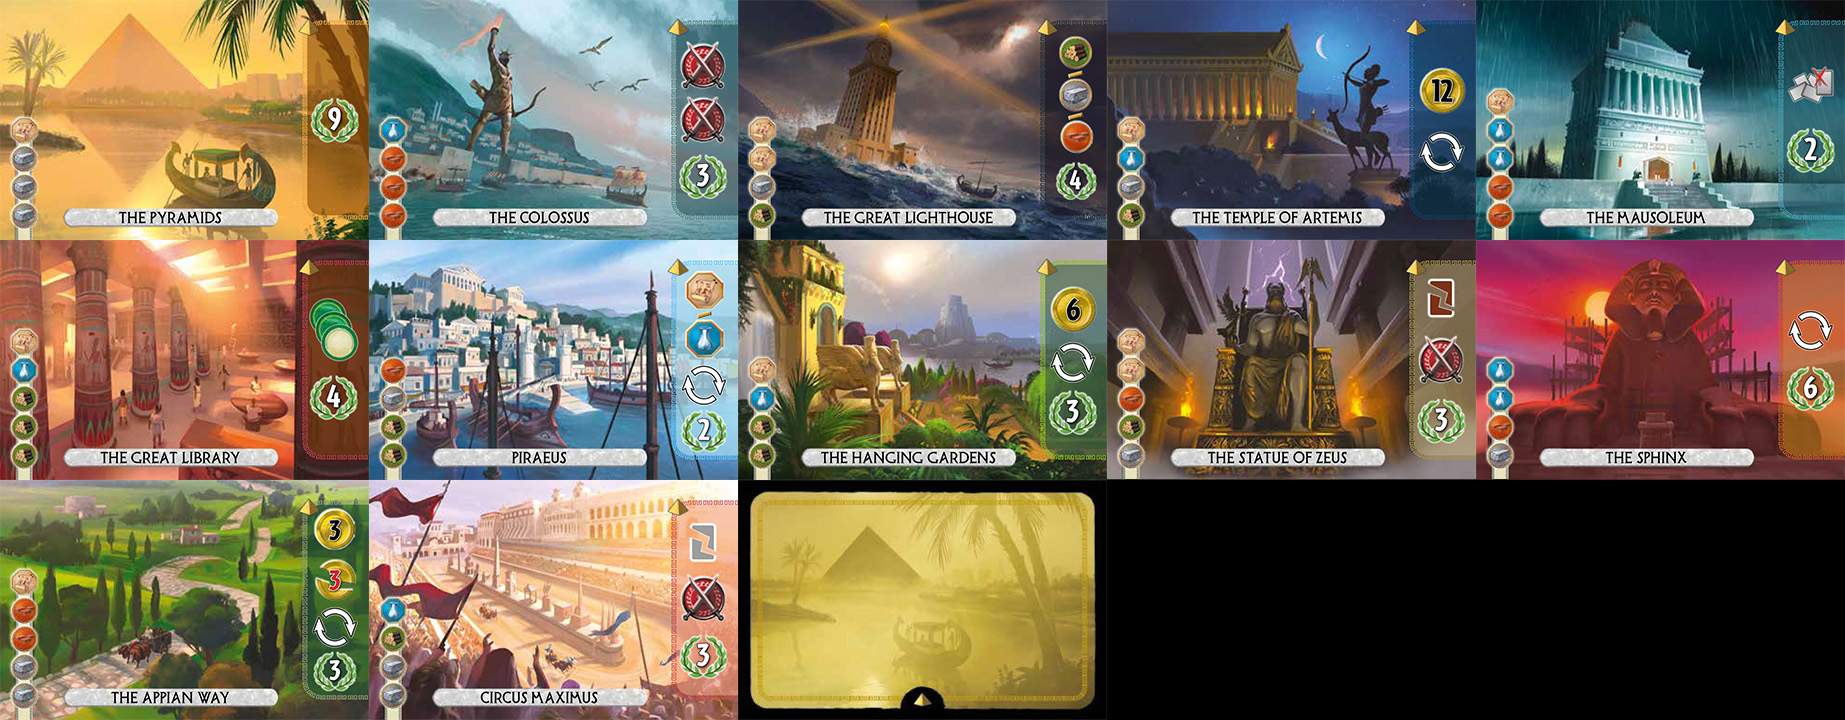
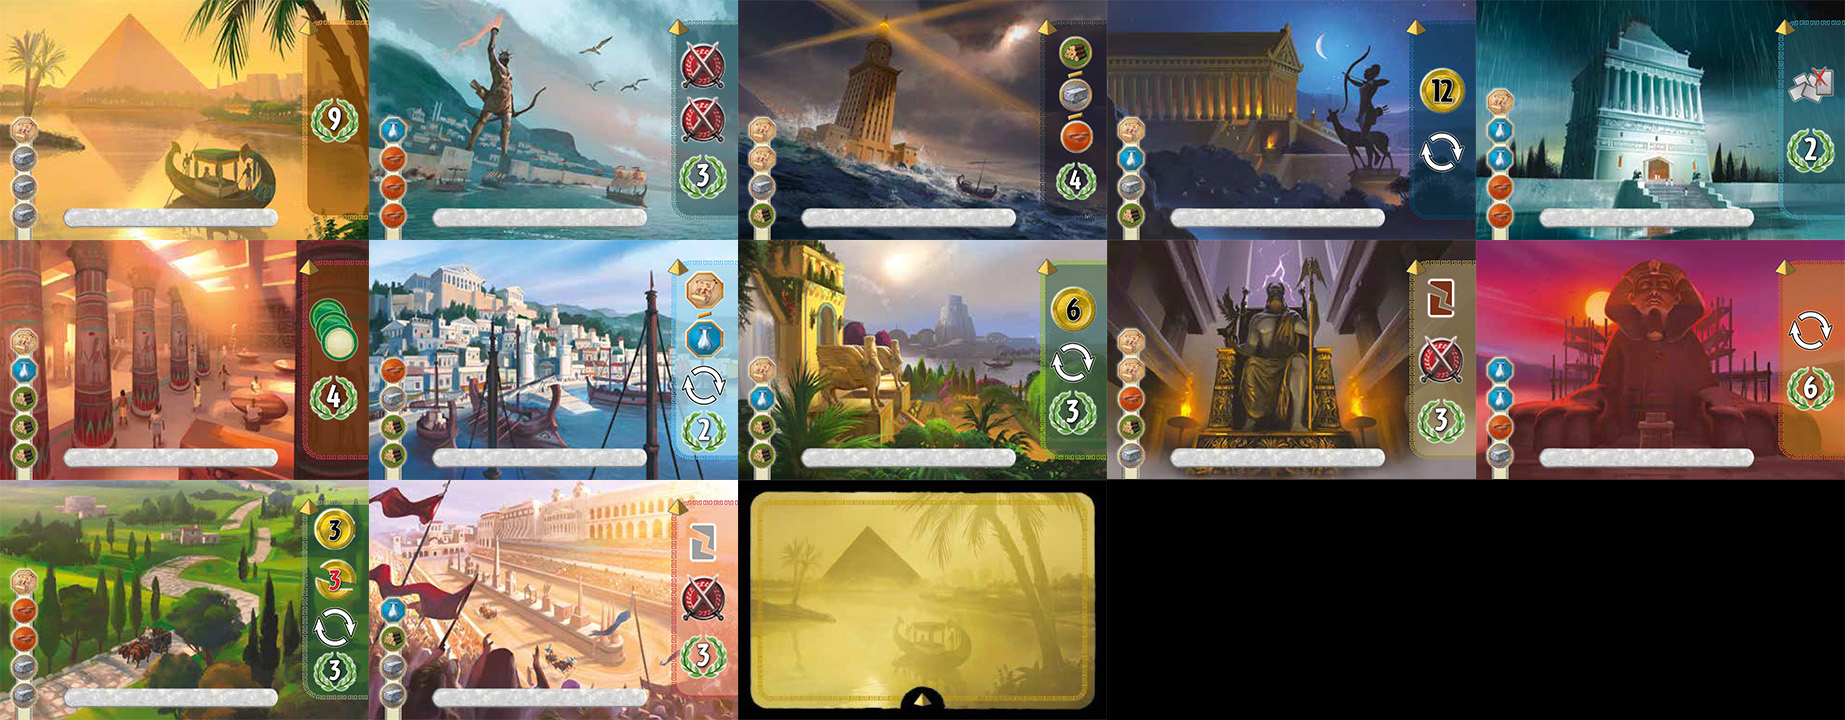
Added dynamic title to wonder.

diff --git a/sevenwondersduel.css b/sevenwondersduel.css
@@ -1144,7 +1144,7 @@ __        __              _
             inset 0px 0px 0px calc(var(--scale) * 0.5px) #00000060;
 }
 
-.wonder_small .swd_title_container {
+.wonder .swd_title_container {
     position: absolute;
     top: 0px;
     left: 0px;
@@ -1152,7 +1152,7 @@ __        __              _
     width: calc(var(--wonder-width) * var(--wonder-small-scale));
     height: calc(var(--wonder-height) * var(--wonder-small-scale));
 }
-.wonder_small .swd_title {
+.wonder .swd_title {
     position: relative;
     top: calc(206px * var(--wonder-small-scale));
     left: calc(-14px * var(--wonder-small-scale));

diff --git a/sevenwondersduel.js b/sevenwondersduel.js
@@ -971,7 +971,7 @@ define([
                     var spritesheetColumns = 5;
 
                     var data = {};
-                    data.name = wonder.name;
+                    data.jsName = wonder.name;
                     data.jsText = wonder.text;
                     data.jsBackX = ((id - 1) % spritesheetColumns);
                     data.jsBackY = Math.floor((id - 1) / spritesheetColumns);
